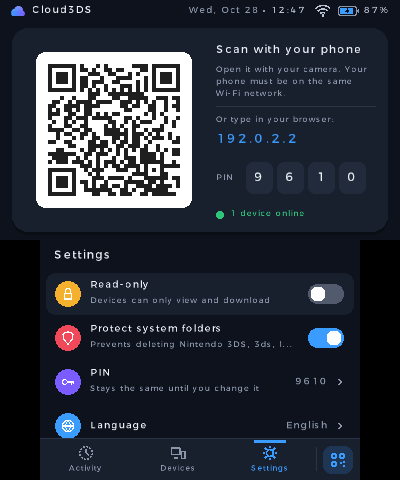
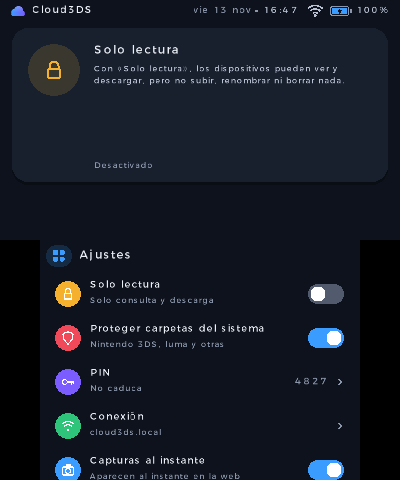
README y CHANGELOG: la interfaz por aplicaciones
El README y la entrada 1.2.0 del CHANGELOG describían la interfaz
anterior (pestañas, el botón central, SELECT como menú, «Instalados»).
- README: capturas nuevas (inicio, Conectar, Títulos, Descargas, la
  pantalla de espera y Ajustes) en lugar de las de la interfaz anterior;
  las aplicaciones de la consola y lo que hace cada una; la pantalla de
  espera; la tabla de controles actual; la lista de código fuente con
  titles.c, dl.c, cloud.c, music.c y el navegador (experimental). También
  en el resumen en inglés.
- CHANGELOG 1.2.0: la interfaz por aplicaciones, la pantalla de espera,
  Títulos, la Nube y el Navegador, y la traducción completa.

diff --git a/README.md b/README.md
@@ -7,14 +7,14 @@
 <a href='https://ko-fi.com/W3A028X2KV' target='_blank'><img height='36' style='border:0px;height:36px;' src='https://storage.ko-fi.com/cdn/kofi3.png?v=6' border='0' alt='Buy Me a Coffee at ko-fi.com' /></a>
 
 <p align="center">
-  <img src="docs/inicio.png" width="260" alt="Pantalla de inicio con el QR, la dirección, el PIN y la actividad">
-  <img src="docs/subida.png" width="260" alt="Subida en curso vista en la consola">
-  <img src="docs/minimizado.png" width="260" alt="El QR minimizado con SELECT y la subida a lo ancho">
+  <img src="docs/inicio.png" width="260" alt="El inicio: cada función es una aplicación">
+  <img src="docs/conectar.png" width="260" alt="Conectar: el QR, la dirección, el PIN y la actividad">
+  <img src="docs/titulos.png" width="260" alt="Títulos: juegos y aplicaciones instalados y lo que ocupan">
 </p>
 <p align="center">
-  <img src="docs/dispositivos.png" width="260" alt="Dispositivos con su nombre real">
+  <img src="docs/descargas.png" width="260" alt="Descargas desde un enlace o un código QR">
+  <img src="docs/espera.png" width="260" alt="Pantalla de espera mientras se desinstala">
   <img src="docs/ajustes.png" width="260" alt="Ajustes">
-  <img src="docs/acerca.png" width="260" alt="Acerca de, con el QR del Discord">
 </p>
 <p align="center">
   <img src="docs/web-movil.png" width="200" alt="La SD en el móvil, con carpetas destacadas y las del sistema aparte">
@@ -39,7 +39,7 @@ Necesitas una consola con homebrew (por ejemplo, con [3ds.hacks.guide](https://3
 ## Cómo se usa
 
 1. Conecta la consola a tu Wi-Fi (o al punto de acceso de tu móvil si no tienes router) y abre **Cloud3DS**.
-2. **Desde el móvil:** escanea el QR de la pantalla de arriba con la cámara. Se abre tu SD en el navegador, sin escribir nada.
+2. **Desde el móvil:** abre **Conectar** y escanea el QR de la pantalla de arriba con la cámara. Se abre tu SD en el navegador, sin escribir nada.
 3. **Desde el PC:** escribe en el navegador la dirección que aparece (por ejemplo `192.168.1.34`) y el **PIN** de 4 cifras.
 4. Listo: navega, sube, descarga y organiza. Cada dispositivo queda recordado; la próxima vez entra solo.
 
@@ -60,7 +60,15 @@ El móvil o el PC tienen que estar en **la misma red** que la consola. En alguna
 - **Crear carpetas, renombrar y borrar**, también varios a la vez.
 - **Seguro por defecto:** modo **solo lectura** y **carpetas del sistema protegidas** (`Nintendo 3DS`, `3ds`, `luma`, `boot.firm`…): llevan un candado y no se pueden borrar ni renombrar mientras la protección esté activa.
 - **Sin sorpresas:** las subidas y las copias se escriben en un temporal y solo se guardan al terminar; si se corta, no quedan archivos a medias. Avisa si no hay espacio o si el archivo pasa de 4 GB (límite de FAT32).
-- **En la consola:** el QR, la dirección y el PIN siempre a la vista, con las transferencias en directo al lado. La ventana del QR se cierra sola en cuanto haces otra cosa y queda la tira con la dirección y el PIN. El servidor se puede apagar en Ajustes → Conexión (la nube y las descargas siguen funcionando). Pestañas de **Actividad**, **Dispositivos** y **Ajustes**; en «Acerca de», los QR de GitHub, Discord y Ko-fi.
+- **En la consola, por aplicaciones:** el inicio reúne cada función como una aplicación con su icono; arriba se ve la elegida con lo más útil de ella (espacio libre, dispositivos conectados, descargas en curso…).
+  - **Archivos:** la SD con accesos rápidos, búsqueda, selección múltiple, papelera, ZIP, MD5/SHA-256, visor de fotos y editor de texto.
+  - **Títulos:** los juegos y aplicaciones instalados con lo que ocupa cada uno, ordenables por tamaño. Permite copiar la partida, desinstalar solo la actualización o los DLC, borrar los datos extra (siempre con copia previa) o desinstalar el título.
+  - **Conectar:** el QR, la dirección y el PIN, la actividad en directo y los dispositivos vinculados.
+  - **Descargas:** desde un enlace o escaneando un código QR; los CIA se instalan mientras se descargan.
+  - **Nube:** OneDrive en la consola, con copia automática de partidas y capturas.
+  - **Navegador** (experimental), **Música** (también en segundo plano) y **Ajustes**; en «Acerca de», los QR de GitHub, Discord y Ko-fi.
+- **Operaciones delicadas protegidas:** al instalar, desinstalar o borrar datos aparece una pantalla de espera que bloquea los botones y HOME hasta que termina, para que no se corte a mitad. Una descarga que se está instalando se puede cancelar sin riesgo.
+- El servidor se puede apagar en Ajustes → Conexión (la nube y las descargas siguen funcionando).
 - **Se actualiza sola:** busca versiones nuevas en GitHub y las instala desde Ajustes, comprobando antes que el archivo es el original (SHA-256). Nunca baja de versión.
 - **Puedes cerrar la tapa:** mientras transfiere, la consola no se suspende y apaga la pantalla.
 - Fecha, hora, Wi-Fi y batería en la pantalla superior. Tema oscuro y claro.
@@ -70,13 +78,13 @@ El móvil o el PC tienen que estar en **la misma red** que la consola. En alguna
 
 | Botón | Acción |
 |---|---|
-| **L / R** | Cambiar de pestaña (Actividad, Dispositivos, Ajustes) |
-| **↑ ↓** | Moverse por las listas |
-| **A** | Elegir (en Dispositivos: renombrar) |
-| **X** | Desvincular el dispositivo elegido (en Dispositivos) |
-| **Y** | Borrar el historial (en Actividad) |
-| **B** | Atrás / cancelar |
-| **SELECT** | Abrir el menú: Nube, Conectar (QR), Escanear QR, Descargar y Navegador (también con el botón central) |
+| **Cruceta** | Moverse por el inicio y por las listas |
+| **A** | Abrir o elegir |
+| **B** | Atrás; en la pantalla principal de una aplicación, vuelve al inicio |
+| **Y** | En Archivos: opciones de lo elegido · en Títulos: ordenar por tamaño o por nombre · en el inicio: tamaño de los iconos |
+| **X** | En Archivos: crear una carpeta o un documento, o pegar lo copiado |
+| **L / R** | En Conectar: cambiar entre Actividad y Dispositivos |
+| **SELECT** | Volver al inicio desde cualquier aplicación |
 | **START** | Salir (siempre pregunta) |
 
 Todo se puede hacer también con la pantalla táctil.
@@ -105,7 +113,12 @@ source/   código de la app
   fsx.c           operaciones de la SD
   ops.c           copiar y mover dentro de la SD
   names.c         nombre real de los dispositivos (mDNS, NetBIOS y el router)
-  install.c       instalar CIA de la SD (con confirmación en la consola)
+  install.c       instalar CIA de la SD (con confirmación en la consola) o mientras se descargan
+  titles.c        títulos instalados: tamaños, copias de la partida, desinstalar por partes, datos extra
+  dl.c            descargas de Internet (curl)
+  cloud.c         OneDrive
+  music.c         reproductor de música
+  browser.c       navegador web (experimental; brcss, brlayout, jsdom, canvas, svg)
   img.c           abrir fotos para el visor y las miniaturas de la consola
   txt.c           abrir, editar y guardar textos sin cambiar su formato
   hl.c            colores de código en el editor (Python, C/C++, Java, JS, Lua, HTML, JSON…)
@@ -131,7 +144,7 @@ Para añadir o corregir traducciones, edita `tools/i18n_tr.py` y ejecuta `python
 
 **Install:** open **FBI** → *Remote Install* → *Scan QR Code* and scan the QR above, or download `Cloud3DS.cia` / `Cloud3DS.3dsx` from the [latest release](https://github.com/venomshine/Cloud3DS/releases/latest).
 
-**Use:** open Cloud3DS with the console on Wi-Fi. Scan the QR code with your phone's camera, or type the address and PIN shown on the console in your PC's browser (same network). Browse, upload (drag and drop files or whole folders), download, copy and move, view photos and videos, rename and delete. If something already exists, choose to replace (or merge folders), rename, keep both, skip or cancel all. Highlight folders with a color, and system folders are shown in their own group. Devices show their real name when the network provides it, can be renamed and unpaired from the console. The QR window closes by itself as soon as you do something else; SELECT opens the menu (Cloud, Connect, Scan QR, Download, Browser). The server can be turned off in Settings → Connection. The PIN stays the same until you change it (pick your own in Settings). Read-only mode and system-folder protection are on hand, and uploads and copies never leave half-written files behind.
+**Use:** open Cloud3DS with the console on Wi-Fi. Scan the QR code with your phone's camera, or type the address and PIN shown on the console in your PC's browser (same network). Browse, upload (drag and drop files or whole folders), download, copy and move, view photos and videos, rename and delete. If something already exists, choose to replace (or merge folders), rename, keep both, skip or cancel all. Highlight folders with a color, and system folders are shown in their own group. Devices show their real name when the network provides it, can be renamed and unpaired from the console. On the console, every feature is an app on the home menu: Files, Titles (installed games and apps, their size, updates, DLC, extra data, save backups and uninstalling), Connect (QR, address, PIN, activity and devices), Downloads (from a link or a QR code; CIA files install while they download), Cloud (OneDrive), Browser (experimental), Music and Settings. SELECT always returns to the home menu. Installing, uninstalling and deleting data show a waiting screen that blocks the buttons and HOME until they finish. The server can be turned off in Settings → Connection. The PIN stays the same until you change it (pick your own in Settings). Read-only mode and system-folder protection are on hand, and uploads and copies never leave half-written files behind.
 
 **Updates:** Cloud3DS checks GitHub for new versions when it opens. Go to **Settings → Updates** to download, verify (SHA-256) and install the new one without FBI.
 

diff --git a/CHANGELOG.md b/CHANGELOG.md
@@ -2,17 +2,20 @@
 
 ## 1.2.0 — novedades y arreglos
 
-- Interfaz renovada en la consola: barra de almacenamiento fija al pie de la pantalla de arriba; botón central «Traer a la consola» (conectar un dispositivo, escanear un QR o descargar un enlace); menú de opciones de archivo con las acciones principales en grande y sin textos cortados; «+» solo para crear carpeta o documento; Dispositivos y Ajustes más limpios, con la explicación de cada opción en la pantalla de arriba; hojas de opciones con un mismo estilo.
+- Nueva interfaz en la consola: un inicio con cada función como una aplicación (Archivos, Títulos, Conectar, Descargas, Nube, Navegador, Música y Ajustes), con lo más útil de la elegida en la pantalla de arriba y dos tamaños de icono. Cada aplicación ocupa las dos pantallas; SELECT vuelve siempre al inicio y B, desde la pantalla principal de una aplicación. Las aplicaciones se comunican por el portapapeles (archivos copiados y enlaces).
+- Pantalla de espera en las operaciones delicadas: instalar un CIA (también mientras se descarga o al actualizar Cloud3DS), desinstalar y borrar datos bloquean los botones, la pantalla táctil y HOME hasta terminar. Una descarga que se está instalando se puede cancelar sin riesgo.
 - Descargas de Internet en la consola: desde la web, escribiendo un enlace o escaneando un QR (como en FBI), con cola, pausa y reanudación, comprobación de MD5 o SHA-256, y releases de GitHub. Van por el servicio HTTP del sistema, como FBI, y comprueban el certificado (si no se puede, se puede descargar sin comprobarlo tras un aviso).
 - Los CIA pedidos desde la consola se instalan mientras se descargan, sin guardarlos en la SD.
-- Instalados: juegos y apps de la SD con su icono, versión, tamaño y DLC; copias de seguridad de partidas en el formato de Checkpoint y desinstalar.
+- Títulos: juegos y aplicaciones de la SD con su icono, versión y lo que ocupan, ordenables por tamaño, con un resumen del espacio de la SD. Copias de la partida en el formato de Checkpoint, desinstalar solo la actualización o los DLC, borrar los datos extra (con copia previa y sin tocar los que comparta otro juego) y desinstalar.
+- Nube: OneDrive en la consola, con copia automática de partidas y capturas.
+- Navegador web (experimental), con favoritos e historial.
 - Papelera (con recuperación durante 7 días), búsqueda en toda la SD, selección múltiple, MD5 y SHA-256, crear y extraer ZIP y descargar carpetas como ZIP.
 - Reproductor de música (MP3, OGG y WAV) que sigue sonando con la tapa cerrada, y capturas de pantalla que aparecen al instante en la web.
 - Escribir desde el teclado del PC en el editor de la consola (edición en directo).
 - cloud3ds.local e instalación remota desde las apps de PC para FBI. Vincular por la IP vale también para el nombre .local y al revés.
 - Actualizar Cloud3DS desde un archivo de la SD (Ajustes → Actualizaciones → Instalar desde un archivo) o subiendo su CIA desde la web, además de desde GitHub.
 - Arreglos de manejo: una pulsación ya no activa lo que queda debajo al cambiar de carpeta; atrás vuelve a donde se abrió una categoría; Y y X cierran los menús que abren; un CIA se abre con dos toques.
-- Textos revisados en la consola y en la web.
+- Textos revisados en la consola y en la web, con traducción completa al inglés y al japonés.
 
 ## 1.1.0 — novedades y arreglos
 
